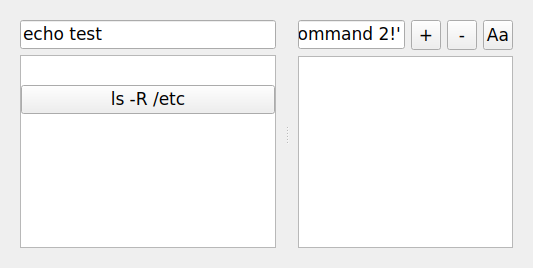
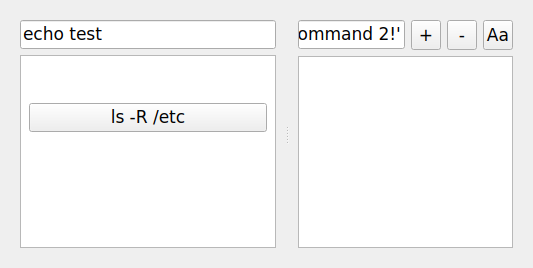
Add spacing and padding around buttons
- Add 4px spacing between list items
- Wrap buttons in container widgets with 4px horizontal and 2px vertical margins
- Provides padding area around buttons for potential drag initiation
- Update all code to work with container widgets
- Buttons now have proper spacing like original layout

Changed region(s): [[0.03, 0.2985, 0.5103, 0.5075]]

diff --git a/src/cmdbuttons.py b/src/cmdbuttons.py
@@ -199,6 +199,7 @@ class MainWindow(QWidget):
 
         # Command list with actual button widgets
         self.command_list = ReorderableListWidget(self)
+        self.command_list.setSpacing(4)  # Add spacing between items
         for command_name in self.commands:
             self._add_button_to_list(command_name)
         self.command_list.items_reordered.connect(self.on_items_reordered)
@@ -255,12 +256,21 @@ class MainWindow(QWidget):
     def _add_button_to_list(self, command_name):
         """Add a command button to the list widget"""
         item = QListWidgetItem(self.command_list)
+
+        # Create a container widget with padding for drag area
+        container = QWidget()
+        layout = QHBoxLayout(container)
+        layout.setContentsMargins(4, 2, 4, 2)  # Add margins for drag area
+
         button = DraggableButton(command_name, self)
         button.list_widget = self.command_list
         button.clicked.connect(lambda checked, name=command_name: self.on_command_button_clicked(name))
-        item.setSizeHint(button.sizeHint())
+
+        layout.addWidget(button)
+
+        item.setSizeHint(container.sizeHint())
         self.command_list.addItem(item)
-        self.command_list.setItemWidget(item, button)
+        self.command_list.setItemWidget(item, container)
 
     @pyqtSlot()
     def on_add_button_clicked(self):
@@ -319,10 +329,12 @@ class MainWindow(QWidget):
         for command_name in removed_commands:
             for i in range(self.command_list.count()):
                 item = self.command_list.item(i)
-                widget = self.command_list.itemWidget(item)
-                if widget and widget.text() == command_name:
-                    self.command_list.takeItem(i)
-                    break
+                container = self.command_list.itemWidget(item)
+                if container:
+                    button = container.findChild(DraggableButton)
+                    if button and button.text() == command_name:
+                        self.command_list.takeItem(i)
+                        break
 
         # Add new items for added commands
         for command_name in added_commands:
@@ -358,10 +370,12 @@ class MainWindow(QWidget):
         ordered_commands = []
         for i in range(self.command_list.count()):
             item = self.command_list.item(i)
-            widget = self.command_list.itemWidget(item)
-            if widget:
-                command_name = widget.text()
-                ordered_commands.append({"name": command_name, "command": self.commands[command_name]})
+            container = self.command_list.itemWidget(item)
+            if container:
+                button = container.findChild(DraggableButton)
+                if button:
+                    command_name = button.text()
+                    ordered_commands.append({"name": command_name, "command": self.commands[command_name]})
 
         # Save to YAML
         with open(self.command_file, 'w') as yamlfile:

diff --git a/test_screenshot.py b/test_screenshot.py
@@ -66,18 +66,18 @@ print(f"Screenshot 1 saved to {screenshot_path}")
 
 # Reorder the commands by moving the second item to the first position
 if window.command_list.count() >= 2:
-    # Get the widget from the second item before moving
+    # Get the container widget from the second item before moving
     item = window.command_list.item(1)
-    widget = window.command_list.itemWidget(item)
+    container = window.command_list.itemWidget(item)
 
-    # Take the item and its widget
+    # Take the item and its container
     item = window.command_list.takeItem(1)
 
     # Insert at position 0
     window.command_list.insertItem(0, item)
 
-    # Restore the widget to the moved item
-    window.command_list.setItemWidget(item, widget)
+    # Restore the container to the moved item
+    window.command_list.setItemWidget(item, container)
 
     # Manually trigger the reorder handler since we're not using drag-drop
     window.on_items_reordered()
@@ -92,10 +92,13 @@ print(f"Screenshot 2 saved to {screenshot_path}")
 # Click on the first command in the list to run it (which is now "echo test")
 if window.command_list.count() > 0:
     item = window.command_list.item(0)
-    widget = window.command_list.itemWidget(item)
-    if widget:
-        # Trigger button click directly
-        window.on_command_button_clicked(widget.text())
+    container = window.command_list.itemWidget(item)
+    if container:
+        from src.cmdbuttons import DraggableButton
+        button = container.findChild(DraggableButton)
+        if button:
+            # Trigger button click directly
+            window.on_command_button_clicked(button.text())
     QTest.qWait(1000)  # Wait for command output
 
 # Take final snapshot after execution
